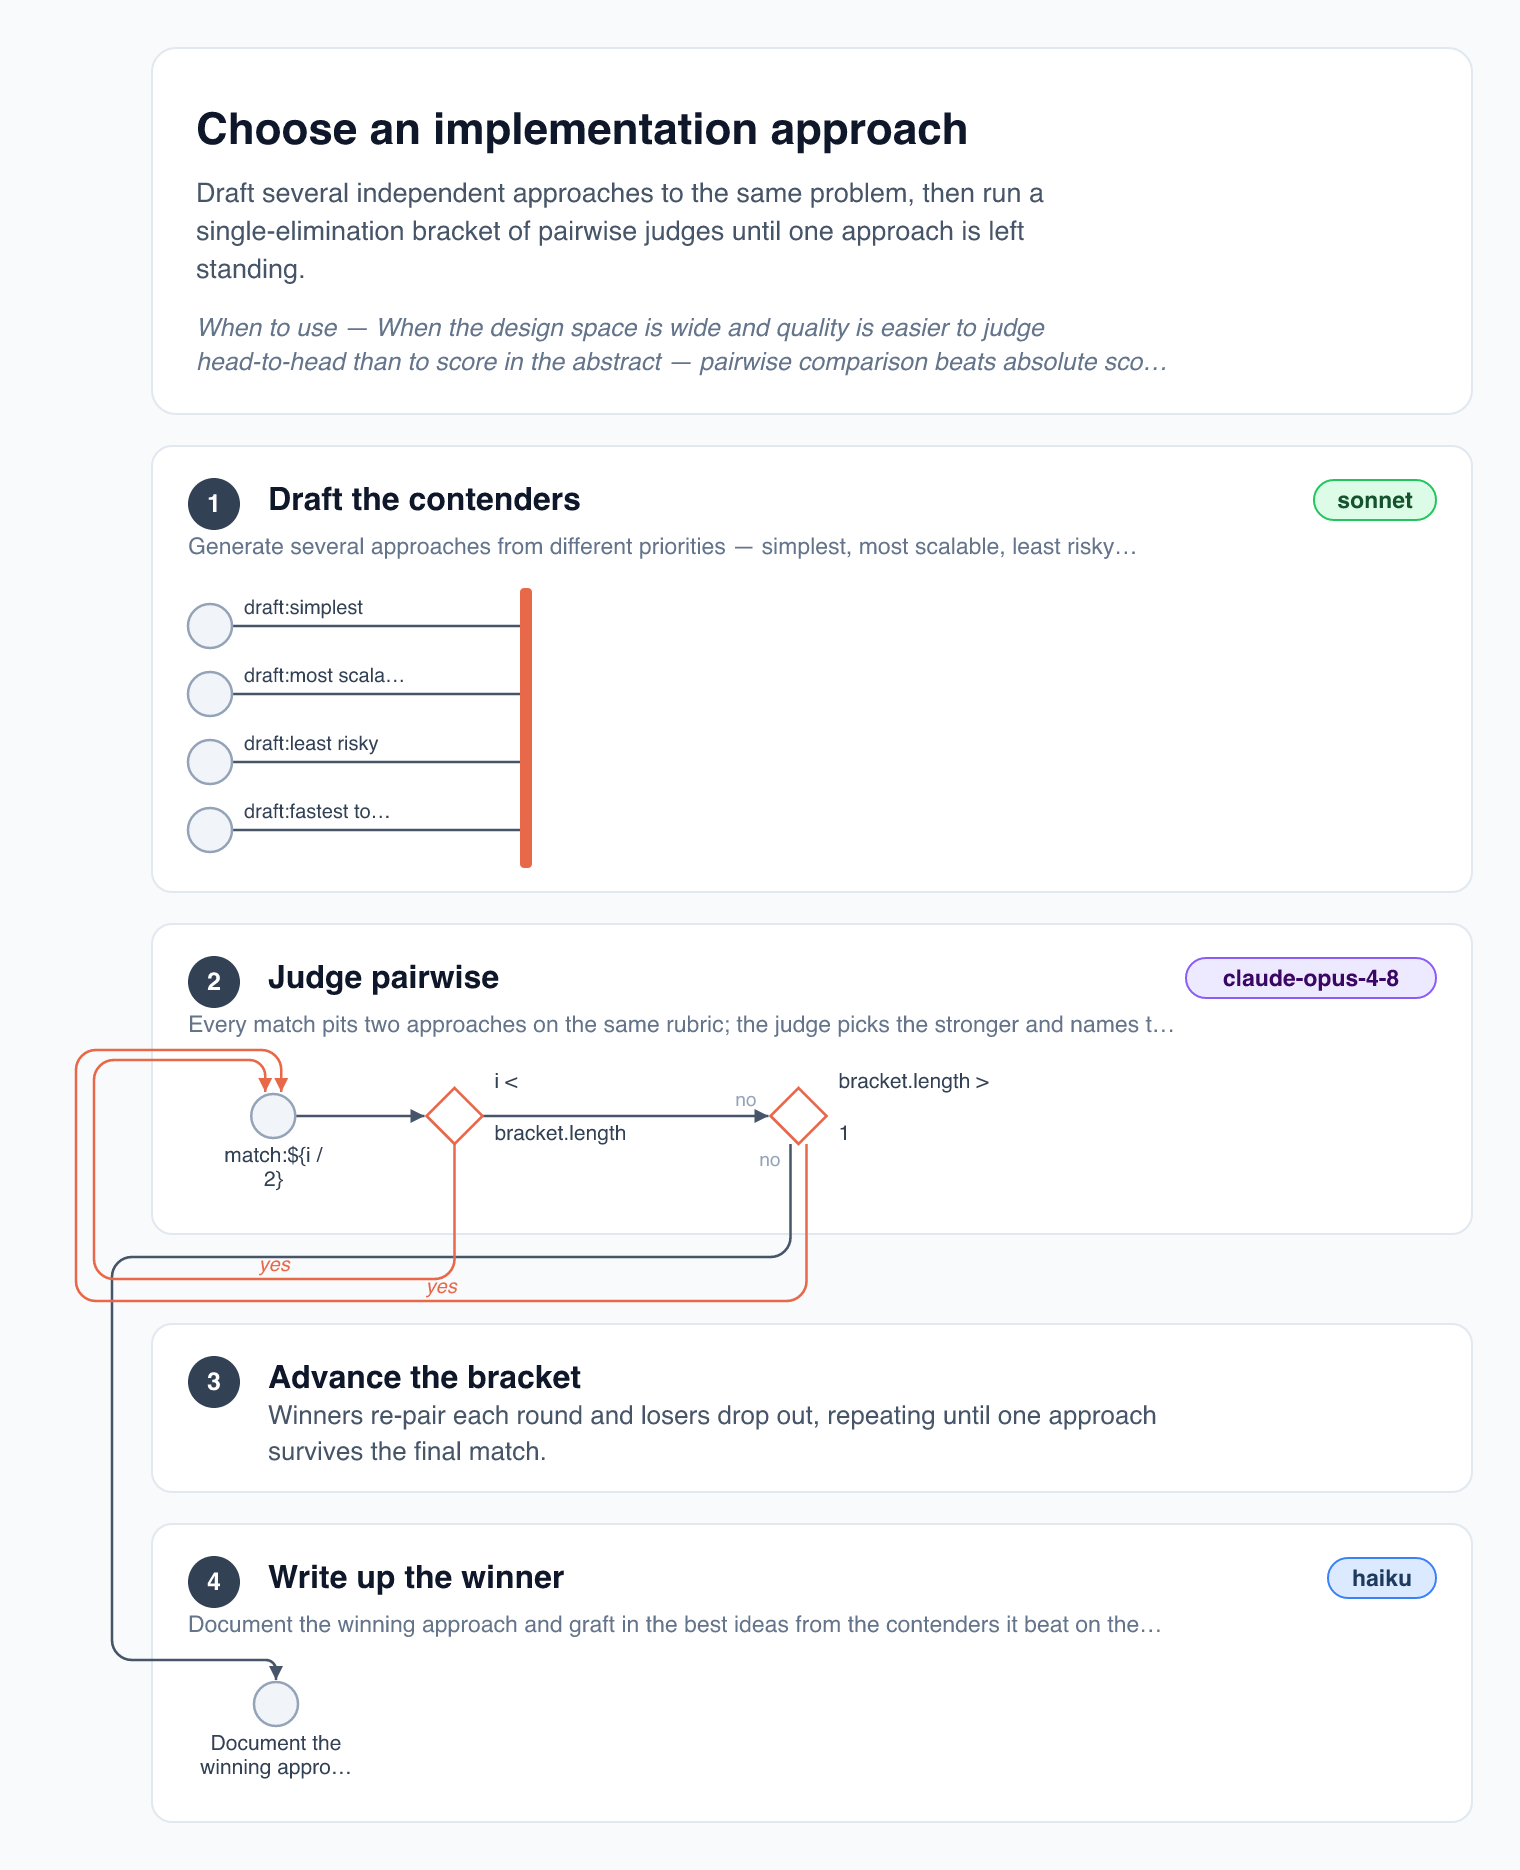
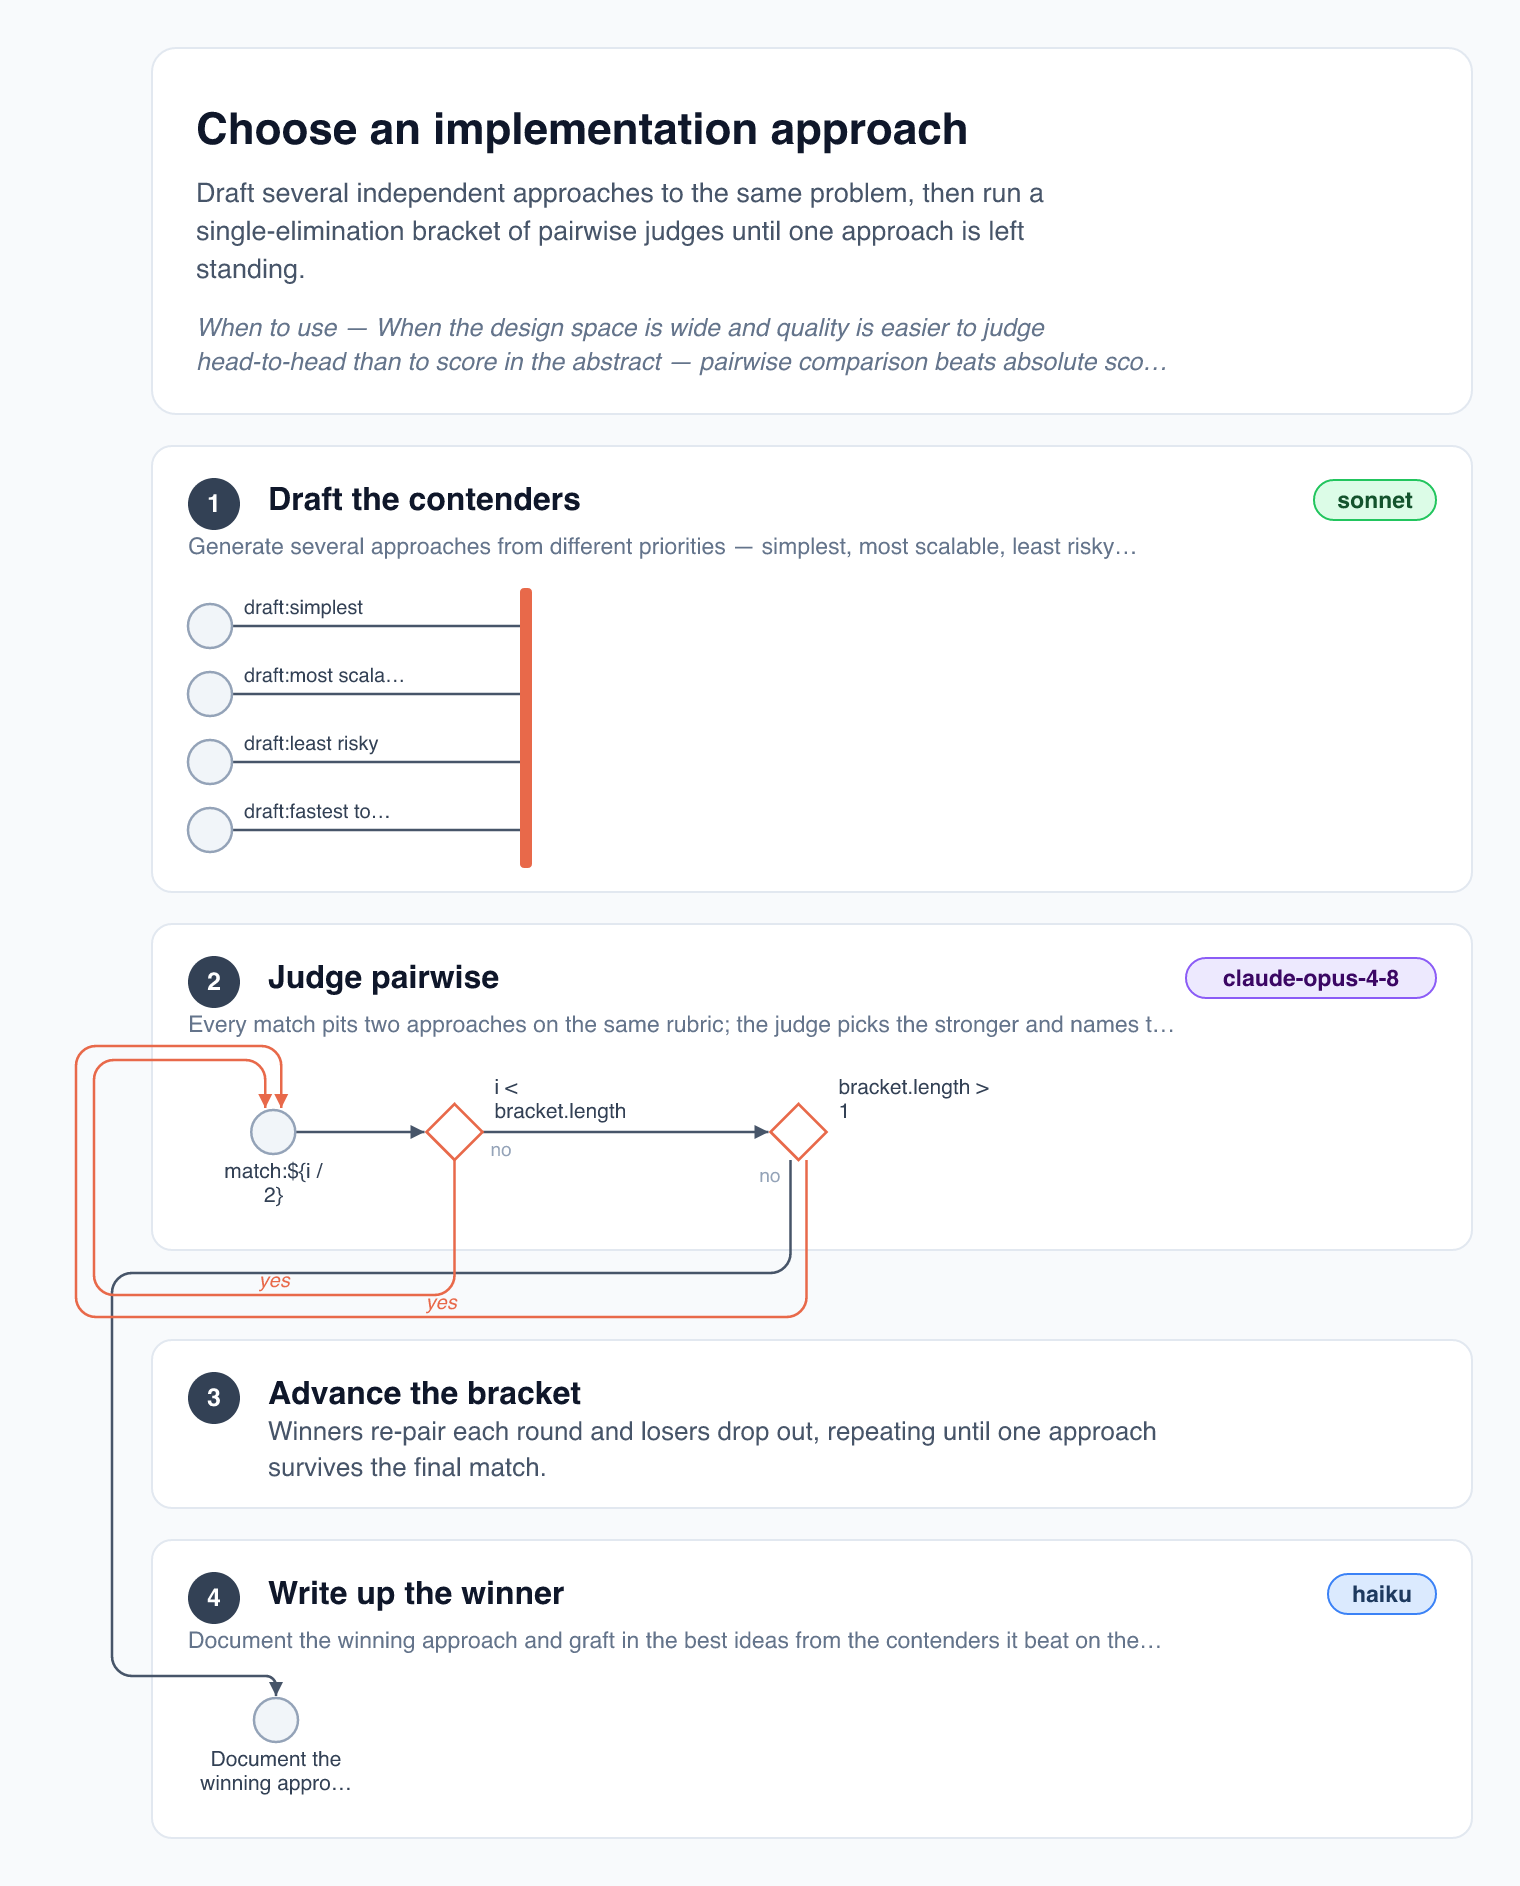
layout: decision labels as coherent blocks, edge labels at origin
A single-row glyph's two-line right label used to straddle its midline
(line 1 above, line 2 below, the edge passing between) — on decisions
this shredded the condition into floating fragments, and forced yes/no
edge labels to the target end where they read as the wrong node's
input. Now a single-row glyph holds its label as one tight block above
the midline (stacks keep the straddle, which slots between row lines),
and edge labels always hug their origin, below the line (above for
ascending diagonals). APPROACH_Y_STEP 5->7 separates parallel loop
top-runs. Only choose-approach and hunt-bugs renders change.

diff --git a/ts/layout-topology.ts b/ts/layout-topology.ts
@@ -109,7 +109,7 @@ const ECHO_OFFSET = 3;
 /** Arrivals into the same node fan out horizontally by this step. */
 const ARRIVAL_X_STEP = 8;
 /** Stacked top-approach runs inside a band's headroom are this far apart. */
-const APPROACH_Y_STEP = 5;
+const APPROACH_Y_STEP = 7;
 
 /**
  * Rough text width estimate (the inverse of `fitChars`): deliberately
@@ -454,10 +454,12 @@ function layoutBand(
   // Label placement: below for a solo single-row column (the classic chain
   // look), right for stacks, shared-row labels, decisions (whose yes/no edge
   // labels would collide with a below-label), and any cross-band departure
-  // source (a below-label would sit under the departing drop). Right labels
-  // straddle the node's midline so an outgoing edge passes between the lines.
-  // Tasks label inside their rect; barriers draw bare; named rows label
-  // per-row, floating just above each row's line.
+  // source (a below-label would sit under the departing drop). A single-row
+  // glyph's right label sits as one block above its midline, clear of the
+  // edge passing at cy; a stack's two-line right label instead straddles the
+  // midline, slotting between row lines 34px apart. Tasks label inside their
+  // rect; barriers draw bare; named rows label per-row, floating just above
+  // each row's line.
   for (const node of bandNodes) {
     const spec = specs.get(node.id)!;
     if (node.kind === "barrier" || node.label === "") spec.labelPos = "none";
@@ -542,12 +544,13 @@ function layoutBand(
     for (const n of nodes) {
       const spec = specs.get(n.id)!;
       if (spec.labelPos === "right") {
-        // A two-line right label straddles the node's midline; reserve the
-        // headroom its top line needs (measured from the node's own center —
-        // a best-effort reservation for stacked columns).
+        // Reserve the headroom a two-line right label's top line needs
+        // (measured from the node's own center — a best-effort reservation
+        // for stacked columns): single-row glyphs hold the whole block above
+        // their midline, stacks only the straddle's upper line.
         const cap = Math.max(24, LABEL_RIGHT_MAX_W * s);
         if (wrapToWidth(n.label, cap, F_LABEL, 2).length > 1) {
-          above = Math.max(above, 23);
+          above = Math.max(above, spec.stackH === ROW_H ? 31 : 23);
         }
         continue;
       }
@@ -661,17 +664,24 @@ function layoutBand(
       });
       tooltip.push(n.label);
     } else if (spec.labelPos === "right") {
-      // One line sits above the node's midline; two lines straddle it so an
-      // outgoing edge passes between them.
+      // A single-row glyph (decision, lone circle) reads its label as one
+      // tight block above its midline, clear of the edge passing at cy. A
+      // stack's two lines instead straddle the midline — they slot between
+      // row lines 34px apart, where a block above would strike the top row.
       const lines = wrapToWidth(n.label, rightCap, F_LABEL, 2);
+      const solo = spec.stackH === ROW_H;
       scene.label = {
         x: rightX,
-        y: lines.length > 1 ? scene.cy - 14 : scene.cy - 7,
+        y: solo
+          ? scene.cy - 7 - (lines.length - 1) * LABEL_LINE_H
+          : lines.length > 1
+            ? scene.cy - 14
+            : scene.cy - 7,
         lines,
         size: F_LABEL,
         anchor: "start",
         tone: "label",
-        ...(lines.length > 1 ? { lineH: 26 } : {}),
+        ...(!solo && lines.length > 1 ? { lineH: 26 } : {}),
       };
       if (lines.join(" ") !== n.label) tooltip.push(n.label);
     } else if (spec.labelPos === "below") {
@@ -716,29 +726,20 @@ function layoutBand(
   for (const e of kept) {
     const src = sceneById.get(e.from)!;
     const dst = sceneById.get(e.to)!;
-    // Edge labels sit below the line near its origin — unless the source
-    // carries a right-hand label there, in which case they move to just
-    // before the target (above the line), out of the text's way.
-    const srcRightLabeled = specs.get(e.from)!.labelPos === "right";
-    const label = (sy: number, tx: number, ty: number): SceneLabel | undefined =>
+    // Edge labels hug the line's origin: below it for horizontal/descending
+    // segments, above for ascending ones — so two labeled exits from one
+    // decision never share a spot. (The source's own right-hand label sits
+    // above its midline, leaving the origin clear.)
+    const label = (sy: number, ty: number): SceneLabel | undefined =>
       e.label
-        ? srcRightLabeled
-          ? {
-              x: tx - 6,
-              y: ty - 5,
-              lines: [truncatePlain(e.label, 14)],
-              size: F_EDGE,
-              anchor: "end" as const,
-              tone: "muted" as const,
-            }
-          : {
-              x: src.cx + src.w / 2 + 4,
-              y: sy + 12,
-              lines: [truncatePlain(e.label, 14)],
-              size: F_EDGE,
-              anchor: "start" as const,
-              tone: "muted" as const,
-            }
+        ? {
+            x: src.cx + src.w / 2 + 4,
+            y: ty < sy ? sy - 7 : sy + 12,
+            lines: [truncatePlain(e.label, 14)],
+            size: F_EDGE,
+            anchor: "start" as const,
+            tone: "muted" as const,
+          }
         : undefined;
     const base = { from: e.from, to: e.to, ...(e.untaken ? { untaken: true } : {}) };
     if (src.rows.length > 1 && dst.kind === "barrier") {
@@ -764,9 +765,7 @@ function layoutBand(
             [dst.cx - dst.w / 2 - 1, row.cy],
           ],
           arrow: true,
-          ...(e.label && row === dst.rows[0]
-            ? { label: label(src.cy, dst.cx - dst.w / 2 - 1, row.cy) }
-            : {}),
+          ...(e.label && row === dst.rows[0] ? { label: label(src.cy, row.cy) } : {}),
         });
       }
     } else {
@@ -786,7 +785,7 @@ function layoutBand(
           [tx, ty],
         ],
         arrow: !flush,
-        ...(e.label ? { label: label(src.cy, tx, ty) } : {}),
+        ...(e.label ? { label: label(src.cy, ty) } : {}),
       });
     }
   }